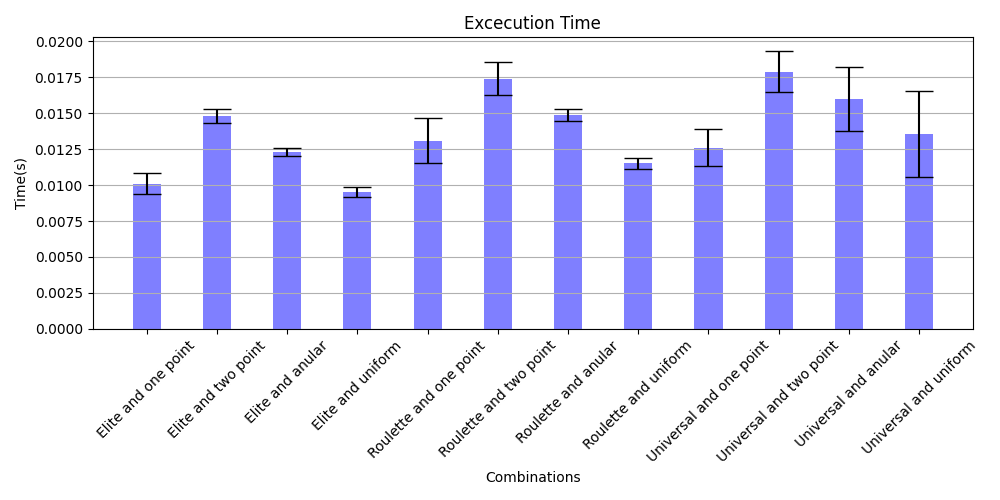
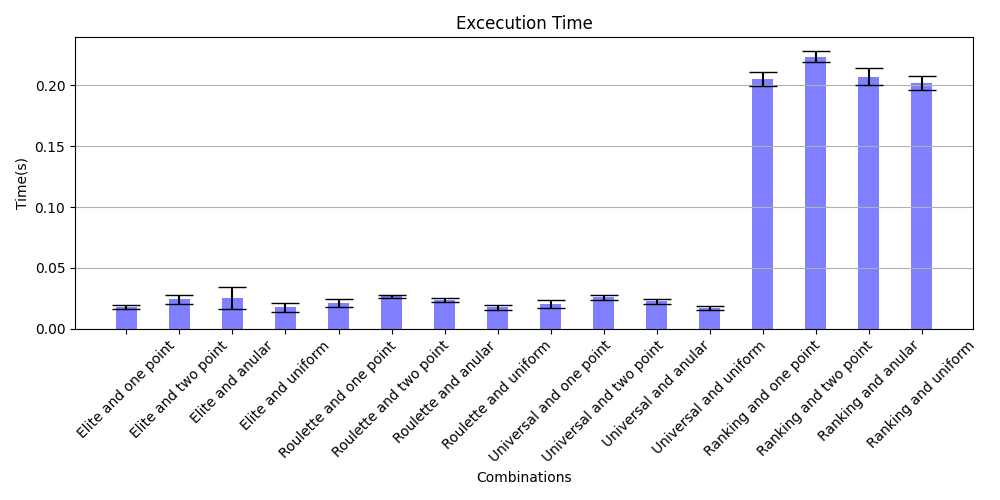
solve merge

diff --git a/tp2/app/selection.py b/tp2/app/selection.py
@@ -44,9 +44,17 @@ def universal_selection(population, fitness, k):
 def ranking_selection(population, fitness, k):
 
     ranked = sorted(fitness, reverse=True)
+    print(f"ranked = {ranked}")
     selected = []
-
+    print(f"fitness = {fitness}")
+    print(f"len de fitness = {len(fitness)} and k = {k}")
     for i in range(len(fitness)):
-        selected[i] = (len(fitness) - ranked.index(fitness[i]) + 1)/len(fitness)
+        print(f"i={i} and fitness[i]={fitness[i]}")
+        print(f"indice en ranked del valor {fitness[i]}= {ranked.index(fitness[i])}")
+        selected.append(np.float64((len(fitness) - ranked.index(fitness[i]) + 1)/len(fitness)))
 
+    print(f"selected = {selected}")
+    print(f"Tipo de respuesta = {type(selected[0])}")
+    print(f"Tipo de ranking = {type(ranked[0])}")
+    print(f"Tipo de fitness = {type(fitness[0])}")
     return roulette_selection(population, selected, k)

diff --git a/tp2/app/benchmark_service.py b/tp2/app/benchmark_service.py
@@ -19,10 +19,10 @@ LABELS = {
     "universal_two_point": "Universal and two point",
     "universal_anular": "Universal and anular",
     "universal_uniform": "Universal and uniform",
-    # "ranking_one_point": "Ranking and one point",
-    # "ranking_two_point": "Ranking and two point",
-    # "ranking_anular": "Ranking and anular",
-    # "ranking_uniform": "Ranking and uniform",
+    "ranking_one_point": "Ranking and one point",
+    "ranking_two_point": "Ranking and two point",
+    "ranking_anular": "Ranking and anular",
+    "ranking_uniform": "Ranking and uniform",
 }
 
 class BenchmarkService:
